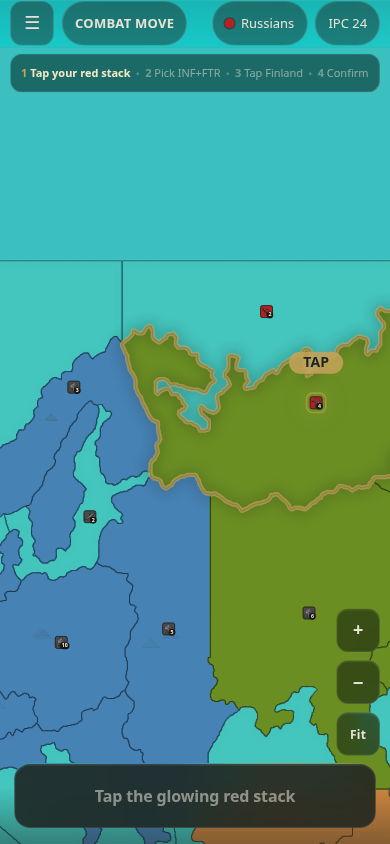
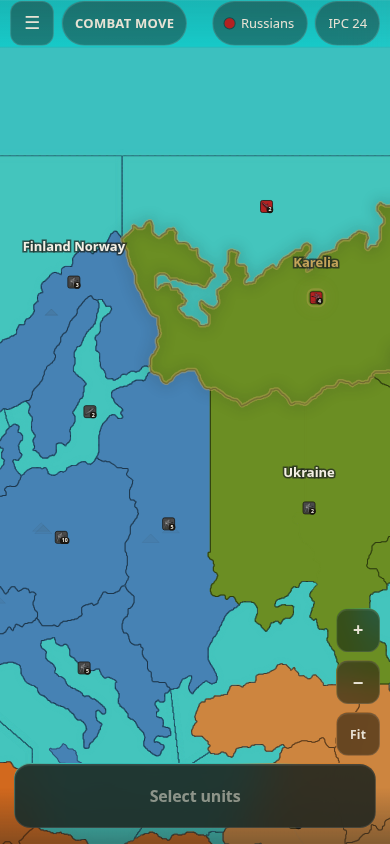
V2.81.53-ux-preview.6: HUD chips actually tap
Window mouseup was treating peek/casualty taps as map taps and
rebuilding the HUD before click. James still drives every tap.
No Try. Preview only — do not merge to main.

diff --git a/src/map/uxPreview.js b/src/map/uxPreview.js
@@ -323,6 +323,12 @@ export async function bootUxPreview() {
     camera.dirty = true;
   }
 
+  function eventFromChrome(e) {
+    const node = e?.target;
+    if (!node || typeof node.closest !== 'function') return false;
+    return !!node.closest('#three-bottom, #three-l0, #three-zoom, #three-sheet, #three-phase-strip');
+  }
+
   canvas.addEventListener('mousedown', (e) => camera.onMouseDown(e));
   canvas.addEventListener('mousemove', (e) => {
     if (camera.onMouseMove(e)) {
@@ -339,6 +345,10 @@ export async function bootUxPreview() {
     canvas.classList.remove('is-panning');
     if (wasDrag) return;
     if (chrome.isSheetOpen()) return;
+    // Peek / loss chips live in the HUD. A window mouseup used to
+    // rebuild that HUD before the chip click, so unit and casualty
+    // taps never registered.
+    if (eventFromChrome(e)) return;
     selectLand(pickAt(e.clientX, e.clientY));
   });
   canvas.addEventListener('wheel', (e) => camera.onWheel(e), { passive: false });
@@ -380,7 +390,7 @@ export async function bootUxPreview() {
     if (e.touches.length === 0) {
       const wasDrag = camera.onMouseUp();
       canvas.classList.remove('is-panning');
-      if (wasDrag || chrome.isSheetOpen()) return;
+      if (wasDrag || chrome.isSheetOpen() || eventFromChrome(e)) return;
       const t = e.changedTouches[0];
       if (t) selectLand(pickAt(t.clientX, t.clientY));
     }

diff --git a/src/map/threeMapChrome.js b/src/map/threeMapChrome.js
@@ -664,12 +664,16 @@ export function injectThreeChrome({ seat = 'Russians', ipc = 24, phase = 'PLACE'
     api.setStacksExpanded(!api.stacksExpanded);
     if (typeof api.onStackToggle === 'function') api.onStackToggle(api.stacksExpanded);
   });
+  api.peek.addEventListener('pointerdown', (e) => e.stopPropagation());
+  api.peek.addEventListener('mouseup', (e) => e.stopPropagation());
   api.peek.addEventListener('click', (e) => {
     const chip = e.target.closest('[data-unit-type]');
     if (!chip) return;
     e.stopPropagation();
     if (typeof api.onUnitPick === 'function') api.onUnitPick(chip.dataset.unitType);
   });
+  api.battleEl.addEventListener('pointerdown', (e) => e.stopPropagation());
+  api.battleEl.addEventListener('mouseup', (e) => e.stopPropagation());
   api.battleEl.addEventListener('click', (e) => {
     const chip = e.target.closest('[data-loss-type]');
     if (!chip) return;

diff --git a/src/version.js b/src/version.js
@@ -3,7 +3,7 @@
 // multiplayer core (syncManager) can both import it without coupling UI code
 // into the sync path. Bump GAME_VERSION for every deployed change.
 
-export const GAME_VERSION = 'V2.81.53-ux-preview.5';
+export const GAME_VERSION = 'V2.81.53-ux-preview.6';
 
 // Schema version of the serialized game state (mirrors gameState.toJSON().version).
 // Bump only when the persisted state shape changes; a mismatch here is a harder

diff --git a/briefs/2026-09-19-main-art-three-ux/SCORE.md b/briefs/2026-09-19-main-art-three-ux/SCORE.md
@@ -1,4 +1,4 @@
-# SCORE — V2.81.53-ux-preview.5
+# SCORE — V2.81.53-ux-preview.6
 **Preview only** `?three=1` or `?ux=1`. Live Canvas / main production untouched. Do not merge.
 
 ```
@@ -9,37 +9,40 @@ doNotMerge=true
 iconPack=noOverlap
 vizP1Coach=false
 scenario=karelia-finland-air
+tryCombatMove=false
 ```
 
 **Lineage:** follow-up on Hybrid PR68 / PR73 / PR74. James he-correct: no Try, no auto-start. Tesla off. Do not merge to main.
 
 ## Playable pocket
-Russians · **Karelia S.S.R.** (INF×3 + FTR×1) → **Finland Norway** (INF×2 + AA). After the take, land the fighter on teal **Russia** or **Karelia**. Seeded AA miss + ATK 2 / DEF 1.
+Russians · **Karelia S.S.R.** (INF×3 + FTR×1) → **Finland Norway** or **Ukraine S.S.R.** After the take, land the fighter on teal **Russia** or **Karelia**. Seeded AA miss + ATK 2 / DEF 1. Optional attacker loss is a picker.
 
 ## Layer B — UX (Three preview)
 | Gate | Verdict | Note |
 |---|---|---|
-| Cold-open start | **PASS** | Numbered strip + pulsing Karelia + TAP chip before any tap. |
-| Combat move origin/dest | **PASS** | Origin pulses until tap. Dest pulses after INF+FTR. Confirm gold when legal. |
-| Battle AA / dice / hits | **PASS** | One bottom card. Zoom hidden. Single gold CTA. |
+| Cold-open start | **PASS** | Map labels + pulsing Karelia + disabled “Select units”. No Try / TAP / strip. |
+| Combat move origin/dest | **PASS** | Origin tap → INF/FTR chips. Dest pulses after ground. Gold Confirm when legal. |
+| Ukraine dest | **PASS** | Ukraine before units does not steal chips. After INF, Ukraine is a legal dest. |
+| Chip taps | **PASS** | HUD mouseup no longer eats unit / casualty chips. |
+| Battle AA / dice / hits | **PASS** | One bottom card. Optional losses use picker. Confirm stays “Assign casualties” until picked. |
 | Air land + Done | **PASS** | Teal landable. Confirm: Land in Russia. After: idle Replay, not gold. |
-| Phase guide | **STRIP** | Persistent numbered steps. Not a Got it modal. No ×. |
+| Phase guide | **OFF** | Hidden strip. Discoverability is labels + pulse + Confirm hints. |
 | No icon overlap | **PASS** | Same STACK-LOD pack as preview.2. |
 | Mobile ~390 | **PASS** | 64px thumb Confirm. Peek or battle card, not both. |
 
 ## How-to (390)
-Cold open already shows the path. Then:
-1. **Combat move** — Tap glowing Karelia → tap INF + FTR chips → tap glowing Finland → gold **Confirm: Move to Finland Norway**.
-2. **Battle** — Confirm Fire AA (miss) → Continue → Roll combat → Take hits → Take Finland Norway.
+He drives every tap. Seeded pocket only.
+1. **Combat move** — Tap glowing **Karelia** → tap INF + FTR chips → tap glowing **Finland** or **Ukraine** → gold **Confirm: Attack …**.
+2. **Battle** — Confirm Fire AA (miss) → Continue → Roll combat → tap a casualty chip → Take hits → Take the dest.
 3. **Air land** — Tap teal Russia → **Confirm: Land in Russia**. Confirm drops to idle `Landed in Russia · Replay`.
 
 ## Stills @390
-- `combat-move-cold-390.png` — strip + pulsing origin + TAP, no taps yet
-- `combat-move-select-390.png` — origin/dest gold, Confirm gold
-- `battle-mid-390.png` — Round 1 dice + hits
+- `combat-move-cold-390.png` — labels + pulsing origin + Select units, no taps yet
+- `combat-move-origin-chips-390.png` — Karelia peek chips, Confirm still Select units
+- `combat-move-select-390.png` — dest pulse / gold Attack
+- `battle-mid-390.png` — casualty picker
 - `air-land-choice-390.png` — teal Russia + Karelia
 - `air-landed-390.png` — fighter in Russia, Confirm idle
 
 **Vercel:** https://tactical-risk20-git-cursor-comba-cfebfb-james-projects-20d8de40.vercel.app/?three=1
-**Deployment:** https://tactical-risk20-em2czwl5r-james-projects-20d8de40.vercel.app/?three=1
 **PR:** https://github.com/04jhbickford/Tactical-Risk/pull/74 (draft · PR68 lineage · do not merge to main)

diff --git a/BUGS.md b/BUGS.md
@@ -2,6 +2,15 @@
 
 ---
 
+## 9.19.26 — V2.81.53-ux-preview.6 chip taps reach pickers
+
+Window mouseup was treating HUD chip taps as map taps and rebuilding
+the peek/battle card before click, so INF/FTR and casualty chips did
+nothing. Chrome events no longer select land. Still no Try. Preview
+only. Do not merge to main.
+
+---
+
 ## 9.19.26 — V2.81.53-ux-preview.5 manual combat-move (no Try)
 
 James he-correct: do not auto-play the combat move. Remove Try combat
